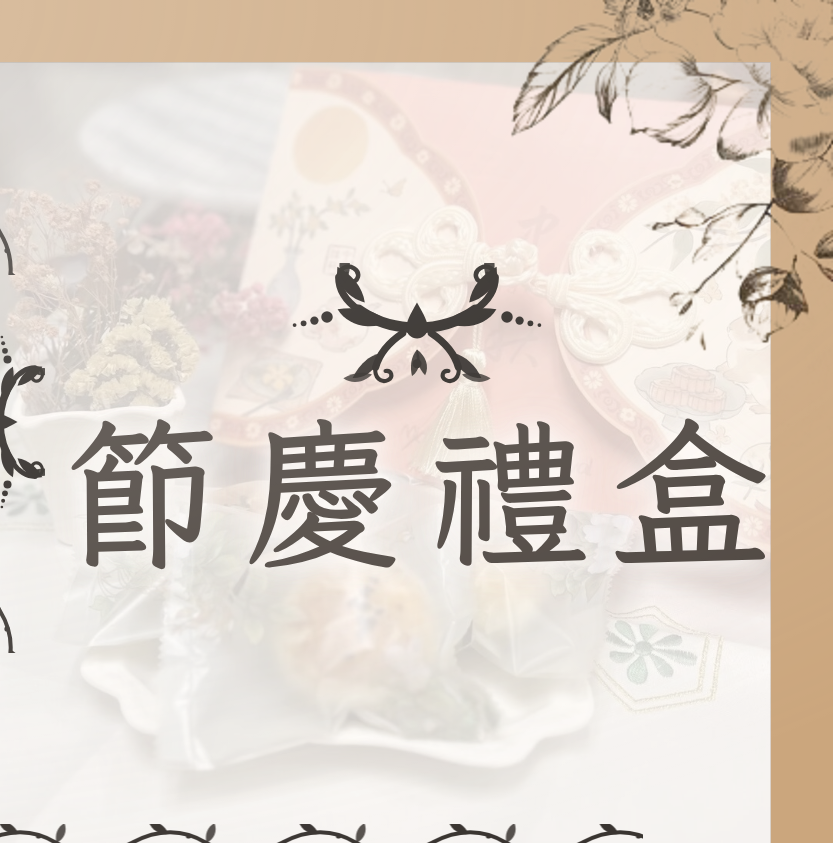
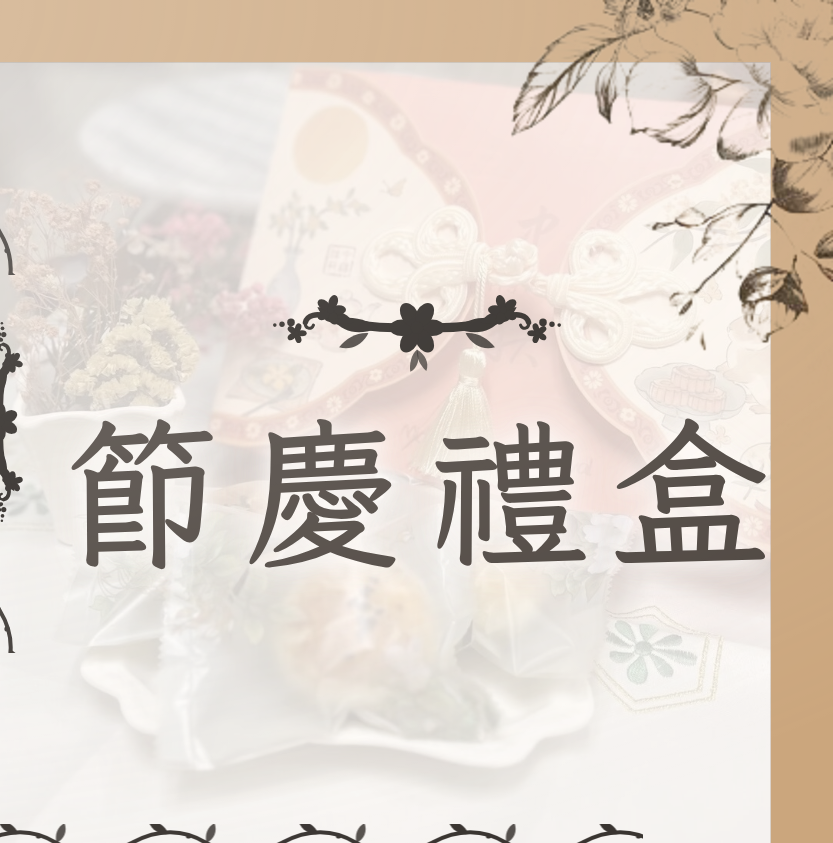
Redraw the ornament so it reads as a flowering sprig
The last one looked like a crab: two tendrils curling up out of the
centre are claws, and a blob with two leaves under it is a body with
legs. Symmetry was not the problem, the shapes were.

The stems now run outward along the axis and only curl at the very tip,
the leaves follow the stem instead of splaying, a real six-petal flower
sits at the centre with a five-petal one part way along each stem, and
the tails still end in beads.

Claude-Session: https://claude.ai/code/session_01A5qo6pz84M1KAVHNuRqreg

Changed region(s): [[0.3433, 0.3084, 0.6555, 0.4626], [0.0, 0.4009, 0.0624, 0.6168]]

diff --git a/生成/官方line/圖文選單/產生圖片.js b/生成/官方line/圖文選單/產生圖片.js
@@ -21,34 +21,35 @@ const LF=(x,y,L,rot,c,op)=>`<path transform="rotate(${rot} ${x} ${y})" opacity="
 /* 漸細捲鬚：沿路徑分段，線寬由粗到細 */
 const CURL=(c,segs)=>segs.map(([d,w])=>
  `<path d="${d}" fill="none" stroke="${c}" stroke-width="${w}" stroke-linecap="round"/>`).join('');
+/* 花朵：n 片花瓣繞中心 */
+const BLOOM=(cx,cy,r,n,c)=>{let p='';
+ for(let k=0;k<n;k++){const a=k*360/n, rad=a*Math.PI/180,
+   x=(cx+Math.cos(rad)*r*0.62).toFixed(1), y=(cy+Math.sin(rad)*r*0.62).toFixed(1);
+   p+=`<ellipse cx="${x}" cy="${y}" rx="${(r*0.52).toFixed(1)}" ry="${(r*0.34).toFixed(1)}" transform="rotate(${a.toFixed(0)} ${x} ${y})"/>`;}
+ return `<g fill="${c}">${p}<circle cx="${cx}" cy="${cy}" r="${(r*0.26).toFixed(1)}" fill="${c}"/></g>`;};
 /* 串珠：由大到小 */
 const BEADS=(pts,c)=>pts.map(([x,y,r])=>`<circle cx="${x}" cy="${y}" r="${r}" fill="${c}"/>`).join('');
 
-/* 對稱花藤（左半，右半由呼叫端鏡射）*/
+/* 橫向花枝（左半，右半鏡射）：莖往外平伸，葉順著莖長，末端小捲 */
 const _half=(c)=>`
  ${CURL(c,[
-  ["M200 72 C176 72 153 65 135 52",12],
-  ["M135 52 C121 42 113 29 113 16",8],
-  ["M113 16 C113 6 122 1 130 6 C138 11 135 22 125 21",5],
-  ["M125 21 C119 20 118 14 122 11",3]])}
- ${LF(168,66,58,198,c)}
- ${LF(142,44,50,236,c)}
- ${LF(120,22,38,276,c,.9)}
- ${CURL(c,[
-  ["M184 78 C169 88 158 101 154 116",8],
-  ["M154 116 C152 127 160 134 168 130 C174 127 172 119 165 120",4.5]])}
- ${LF(160,100,42,142,c,.95)}
- ${LF(150,124,32,176,c,.8)}
- ${BEADS([[100,60,6.4],[86,64,4.6],[74,67,3.2],[64,69,2.1]],c)}`;
+  ["M176 72 C150 72 124 68 102 60",10],
+  ["M102 60 C88 55 78 58 76 66",6],
+  ["M76 66 C75 73 83 75 85 69",3.4]])}
+ ${LF(156,72,50,194,c)}
+ ${LF(130,66,44,206,c)}
+ ${LF(146,78,36,158,c,.85)}
+ ${LF(116,58,30,214,c,.8)}
+ ${BLOOM(104,52,15,5,c)}
+ ${BLOOM(66,78,10,5,c)}
+ ${BEADS([[60,66,4.2],[50,68,3],[42,69,2]],c)}`;
 
 /* 標題上方／分線中央共用的對稱花藤 */
 const SPRIG=(c,w)=>KNOT(c,w,false);
 
 const _body=(c)=>`${_half(c)}<g transform="translate(400,0) scale(-1,1)">${_half(c)}</g>
- <path d="M200 44 C208 58 212 66 212 72 C212 79 206 84 200 84 C194 84 188 79 188 72
-   C188 66 192 58 200 44 Z" fill="${c}"/>
- ${LF(200,96,30,76,c,.9)}${LF(200,96,30,104,c,.9)}
- <circle cx="200" cy="112" r="5" fill="${c}"/>`;
+ ${BLOOM(200,72,27,6,c)}
+ ${LF(200,96,26,70,c,.75)}${LF(200,96,26,110,c,.75)}`;
 const KNOT=(c,s,vert)=>vert
  ? `<svg width="${s*0.36}" height="${s}" viewBox="128 -128 144 400">
      <g transform="rotate(90 200 72)">${_body(c)}</g></svg>`

diff --git a/生成/官方line/圖文選單/README.md b/生成/官方line/圖文選單/README.md
@@ -80,8 +80,23 @@ LINE 圖文選單大版面是 2500 × 1686，3 欄 2 列每格約 833 × 843，
 分線藤蔓是**重複貼圖**，橫向直向各畫一次，不用 CSS 旋轉。
 中央的花藤直向版則是在 SVG 內部繞中心旋轉並交換 viewBox 與寬高。
 
-> 畫到一半發現花藤太細瘦像觸鬚 —— 主莖從 9 加粗到 12、葉片從 46 放大到 58
-> 才有份量。另外直向花藤原本 330px 寬，會撞到「聯絡我們」的字，縮到 250px。
+### 畫壞過兩次
+
+**第一版太細瘦**，像觸鬚不像葉子 —— 主莖從 9 加粗到 12、葉片從 46 放大到 58。
+
+**第二版像螃蟹。** 兩條捲鬚從中央往上翹就是蟹螯，中間一坨加下面兩片葉就是蟹身蟹腳。
+問題不在對稱，在**形狀**：
+
+| 錯的做法 | 改成 |
+| :--- | :--- |
+| 捲鬚從中央往**上**翹 | 莖往**外平伸**，末端才小小一捲 |
+| 葉片朝上下張開 | 葉片**順著莖的方向**長 |
+| 中央是抽象的水滴形 | 中央是一朵**真的花**（六瓣） |
+| 整體只有葉沒有花 | 枝上再加兩朵小花（五瓣） |
+
+形狀對了才看得出是植物。對稱本身沒問題 —— 問題是對稱的是什麼形狀。
+
+另外直向花藤原本 330px 寬，會撞到「聯絡我們」的字，縮到 250px。
 
 ### 為什麼不走金色巴洛克
 
